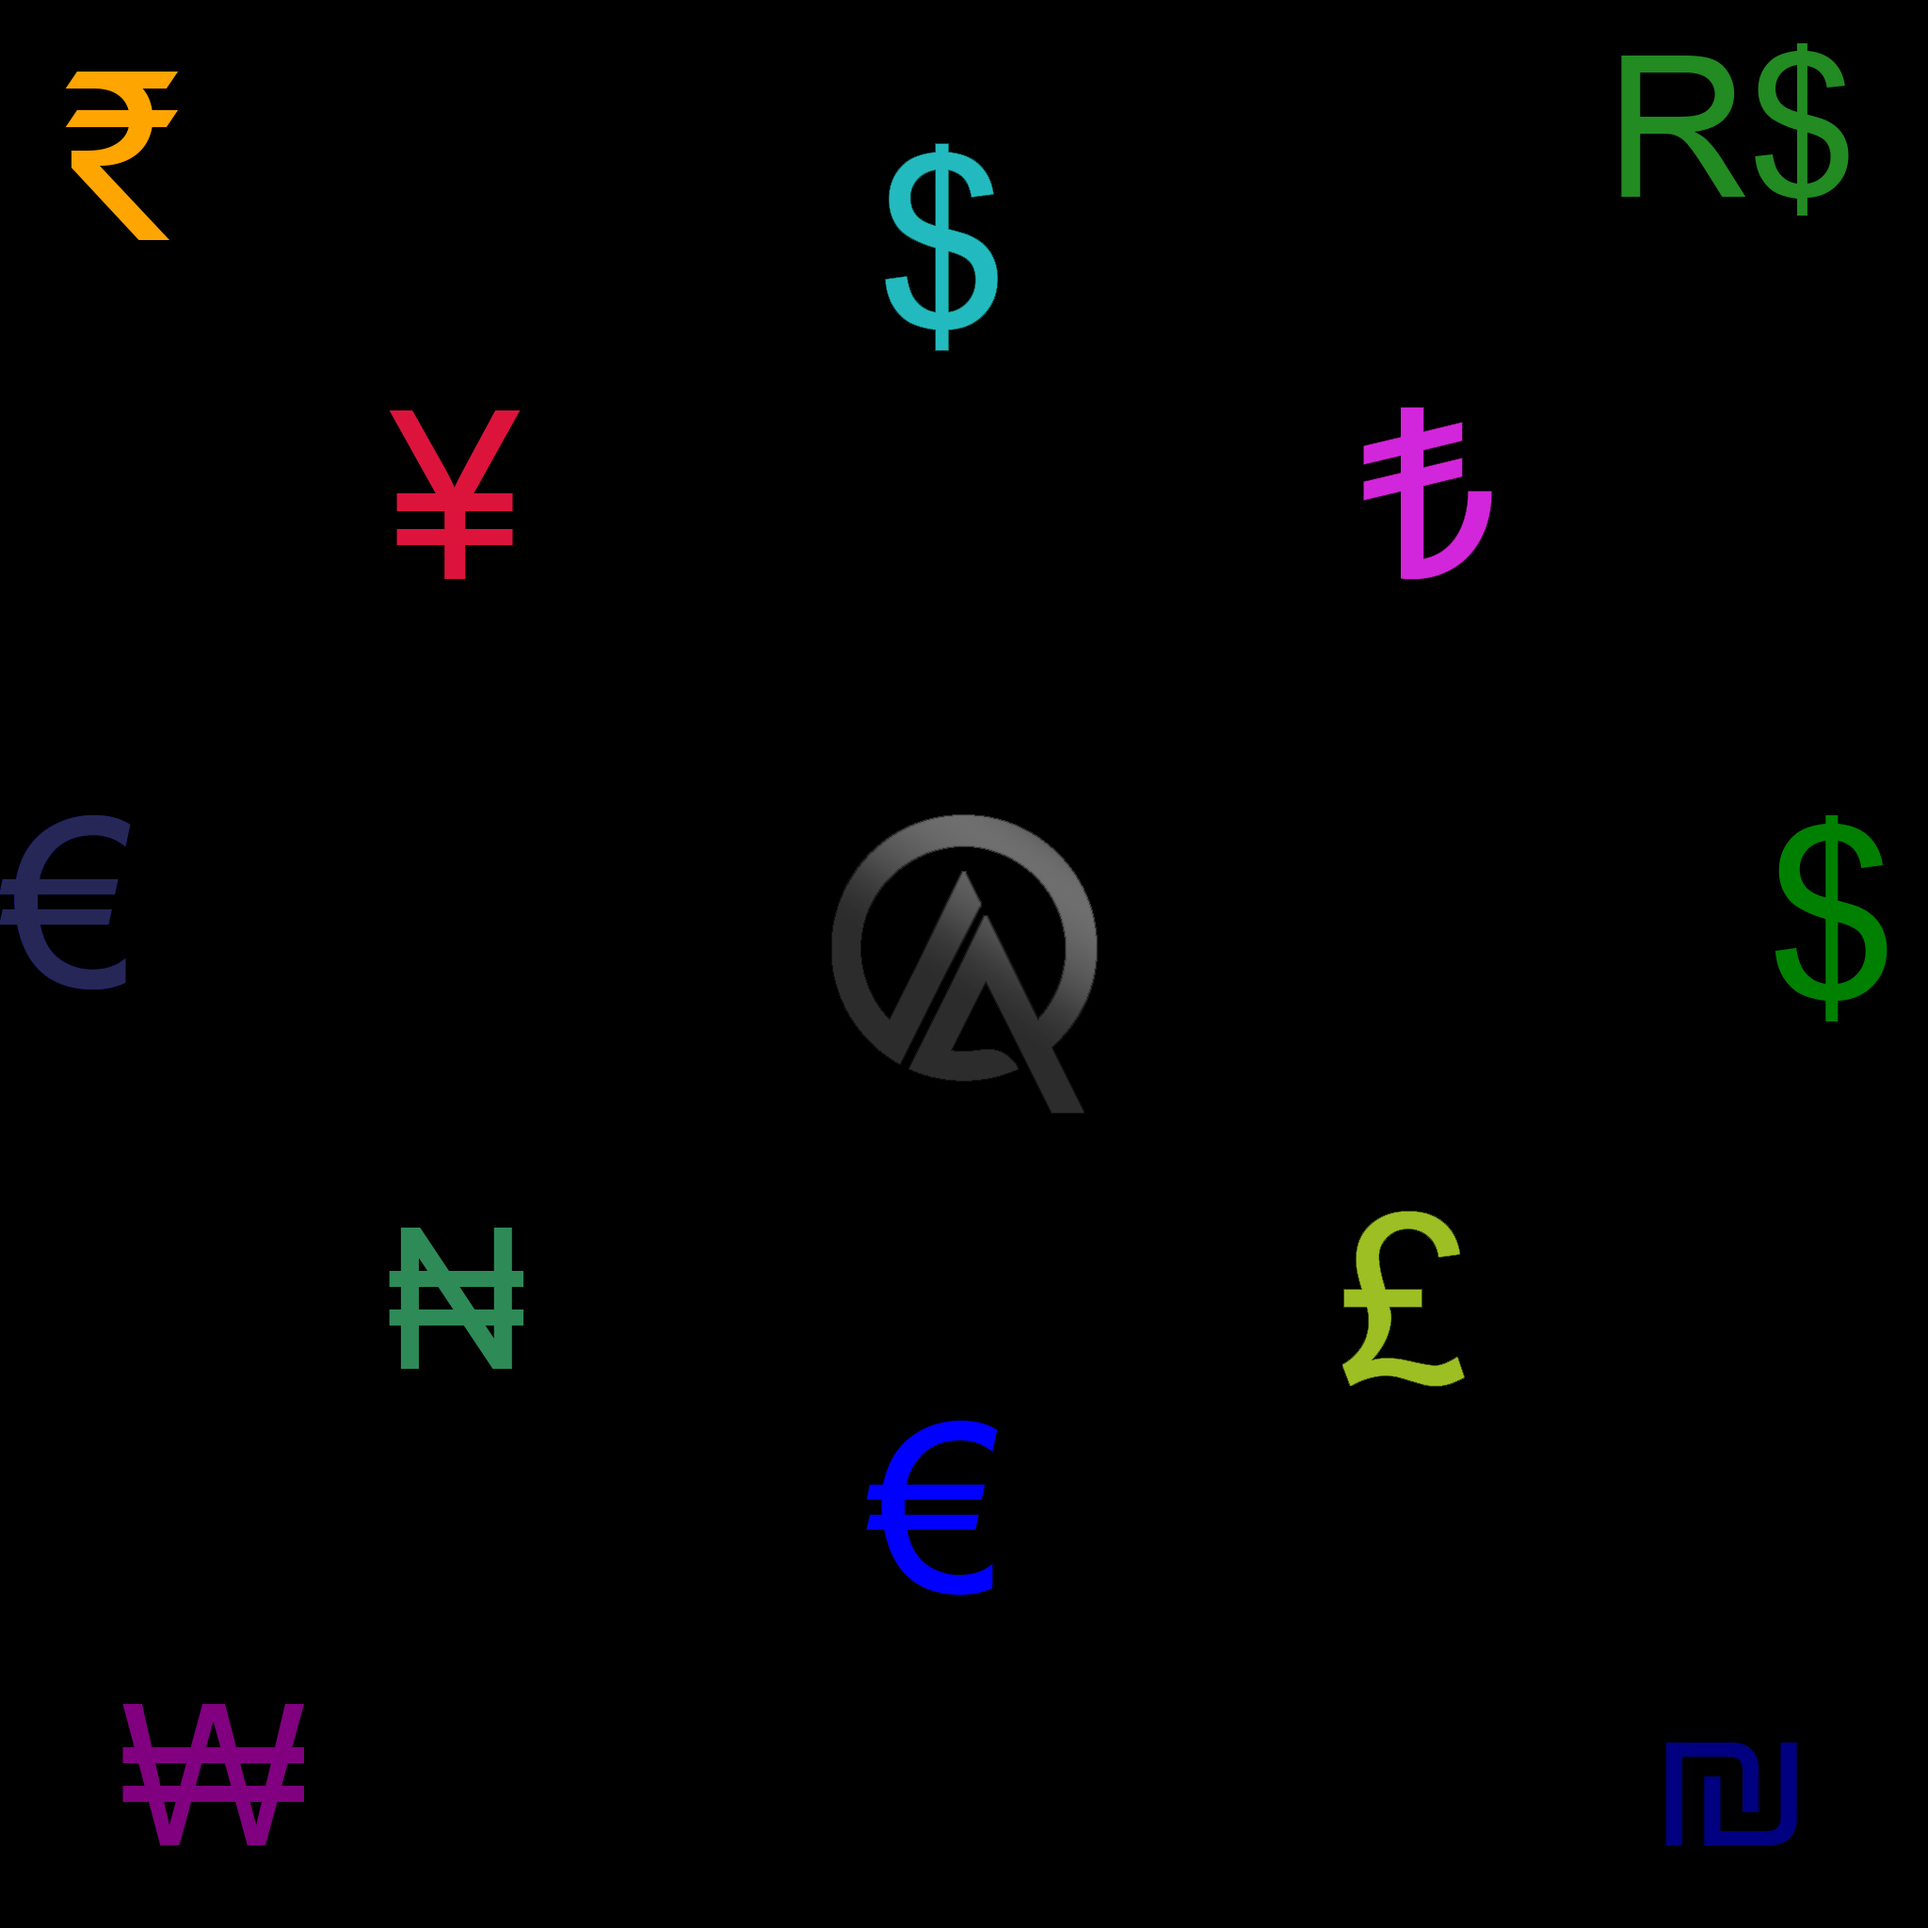
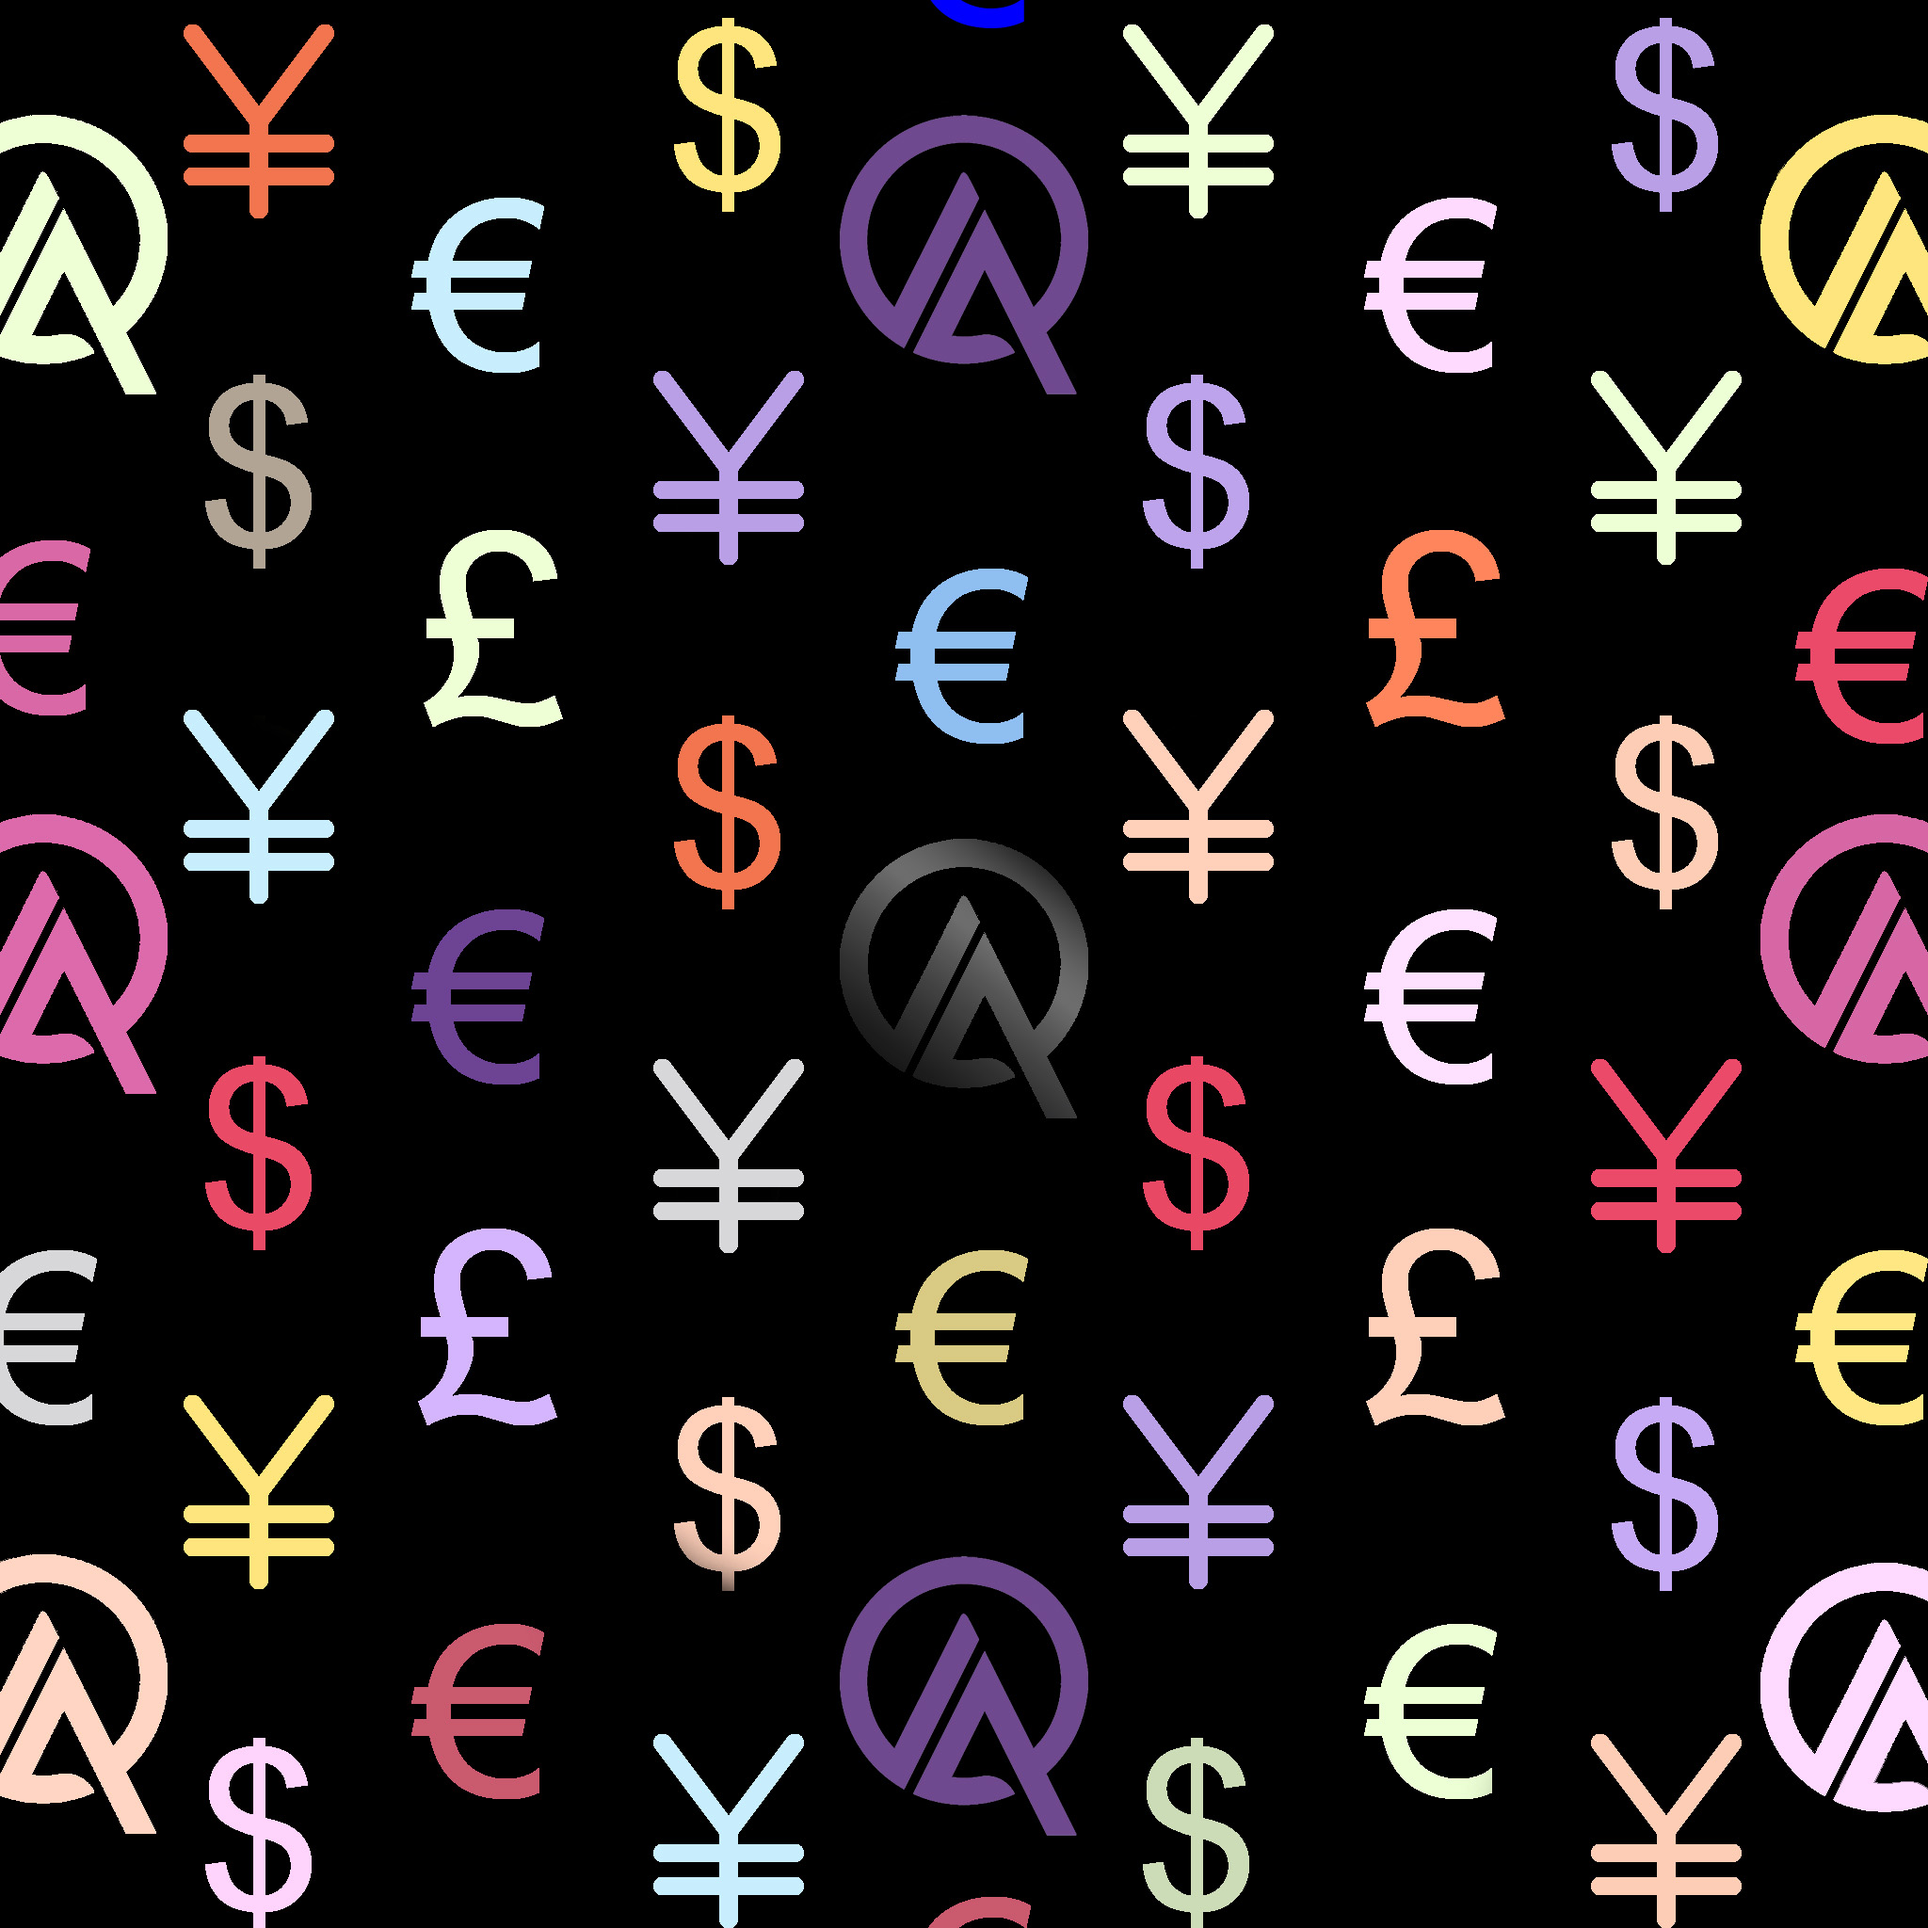
update

diff --git a/js/scripts.js b/js/scripts.js
@@ -12,6 +12,7 @@ function loadComponent(name) {
         // Load blog posts if on home page
         if (name === 'home') {
           loadLatestNews();
+          handleBackgroundVideo(); // Initialize background video handling
         }
         
         // Update active navigation links
@@ -19,6 +20,45 @@ function loadComponent(name) {
         // Initialize scroll-triggered image animation
         initScrollImages();
       });
+  }
+  
+  // Function to handle background video for different devices
+  function handleBackgroundVideo() {
+    const videoContainer = document.querySelector('.video-container');
+    const video = videoContainer ? videoContainer.querySelector('video') : null;
+    const fallbackBg = videoContainer ? videoContainer.querySelector('.fallback-bg') : null;
+    
+    if (!videoContainer || !video || !fallbackBg) return;
+    
+    // Check if device is mobile
+    const isMobile = /Android|webOS|iPhone|iPad|iPod|BlackBerry|IEMobile|Opera Mini/i.test(navigator.userAgent) || window.innerWidth < 768;
+    
+    if (isMobile) {
+      // Show fallback image and hide video on mobile
+      fallbackBg.style.display = 'block';
+      video.style.display = 'none';
+    } else {
+      // Show video and hide fallback on desktop
+      fallbackBg.style.display = 'none';
+      video.style.display = 'block';
+      
+      // Handle video loading
+      video.addEventListener('loadeddata', function() {
+        video.play().catch(error => {
+          console.log('Auto-play prevented:', error);
+          // If autoplay fails, show fallback
+          fallbackBg.style.display = 'block';
+          video.style.display = 'none';
+        });
+      });
+      
+      // Handle video errors
+      video.addEventListener('error', function() {
+        console.log('Video error occurred');
+        fallbackBg.style.display = 'block';
+        video.style.display = 'none';
+      });
+    }
   }
   
   // Load home by default
@@ -869,3 +909,37 @@ function showBlogPostDetails(postId) {
     })
     .catch(error => console.error('Error fetching post details:', error));
 }
+
+// Function to handle background video for mobile devices
+document.addEventListener('DOMContentLoaded', function() {
+    const videoContainer = document.querySelector('.video-container');
+    if (videoContainer) {
+        const video = videoContainer.querySelector('video');
+        const fallbackBg = videoContainer.querySelector('.fallback-bg');
+        
+        // Check if device is mobile
+        const isMobile = /Android|webOS|iPhone|iPad|iPod|BlackBerry|IEMobile|Opera Mini/i.test(navigator.userAgent);
+        
+        if (isMobile) {
+            // Show fallback background for mobile devices
+            if (fallbackBg) fallbackBg.style.display = 'block';
+            
+            // Handle video element
+            if (video) {
+                // Try to play the video anyway (will work on some mobile devices)
+                const playPromise = video.play();
+                
+                if (playPromise !== undefined) {
+                    playPromise.then(_ => {
+                        // Playback started successfully, keep video visible
+                        video.style.display = 'block';
+                    })
+                    .catch(error => {
+                        // Auto-play was prevented, hide video and rely on fallback
+                        video.style.display = 'none';
+                    });
+                }
+            }
+        }
+    }
+});

diff --git a/components/about.html b/components/about.html
@@ -1,5 +1,5 @@
 <!-- About Us -->
-<section class="bg-dark text-white py-5">
+<section class="bg-dark text-white py-5 who-we-are-section">
     <div class="container-fluid">
         <div class="row">
             <div class="col">
@@ -192,6 +192,26 @@
 <style>
     @import url('https://fonts.googleapis.com/css2?family=Roboto:wght@100;300;400;500;700;900&display=swap');
     @import url('https://fonts.googleapis.com/css2?family=Bitter:ital,wght@0,300;0,400;0,500;0,600;0,700;1,300;1,400&display=swap');
+    
+    /* Who We Are Section with Background Image */
+    .who-we-are-section {
+        background-image: url('../assets/Fillers/AOQ-BG.jpg');
+        background-size: cover;
+        background-position: center;
+        position: relative;
+        z-index: 1;
+    }
+    
+    .who-we-are-section::before {
+        content: '';
+        position: absolute;
+        top: 0;
+        left: 0;
+        right: 0;
+        bottom: 0;
+        background-color: rgba(0, 0, 0, 0.7); /* Dark overlay for better text visibility */
+        z-index: -1;
+    }
     
     /* New Quan Card Design */
     .quan-card {

diff --git a/components/home.html b/components/home.html
@@ -1,7 +1,11 @@
 <!-- Hero Section with Video Background -->
 <section class="hero position-relative vh-100 d-flex align-items-center overflow-hidden p-0">
     <div class="video-container position-absolute h-100 w-100">
-        <video autoplay muted loop class="h-100 w-100 object-fit-cover">
+        <!-- Fallback background image for mobile devices -->
+        <div class="fallback-bg position-absolute top-0 start-0 w-100 h-100" style="background: url('assets/Fillers/AOQ-BG.jpg') no-repeat center center/cover; display: none;"></div>
+        
+        <!-- Video with playsinline attribute for mobile compatibility -->
+        <video autoplay muted loop playsinline class="h-100 w-100 object-fit-cover">
             <source src="assets/Videos/CubeWave.mp4" type="video/mp4">
         </video>
         <div class="overlay position-absolute top-0 start-0 w-100 h-100" style="background-color: rgba(0,0,0,0.65);"></div>
